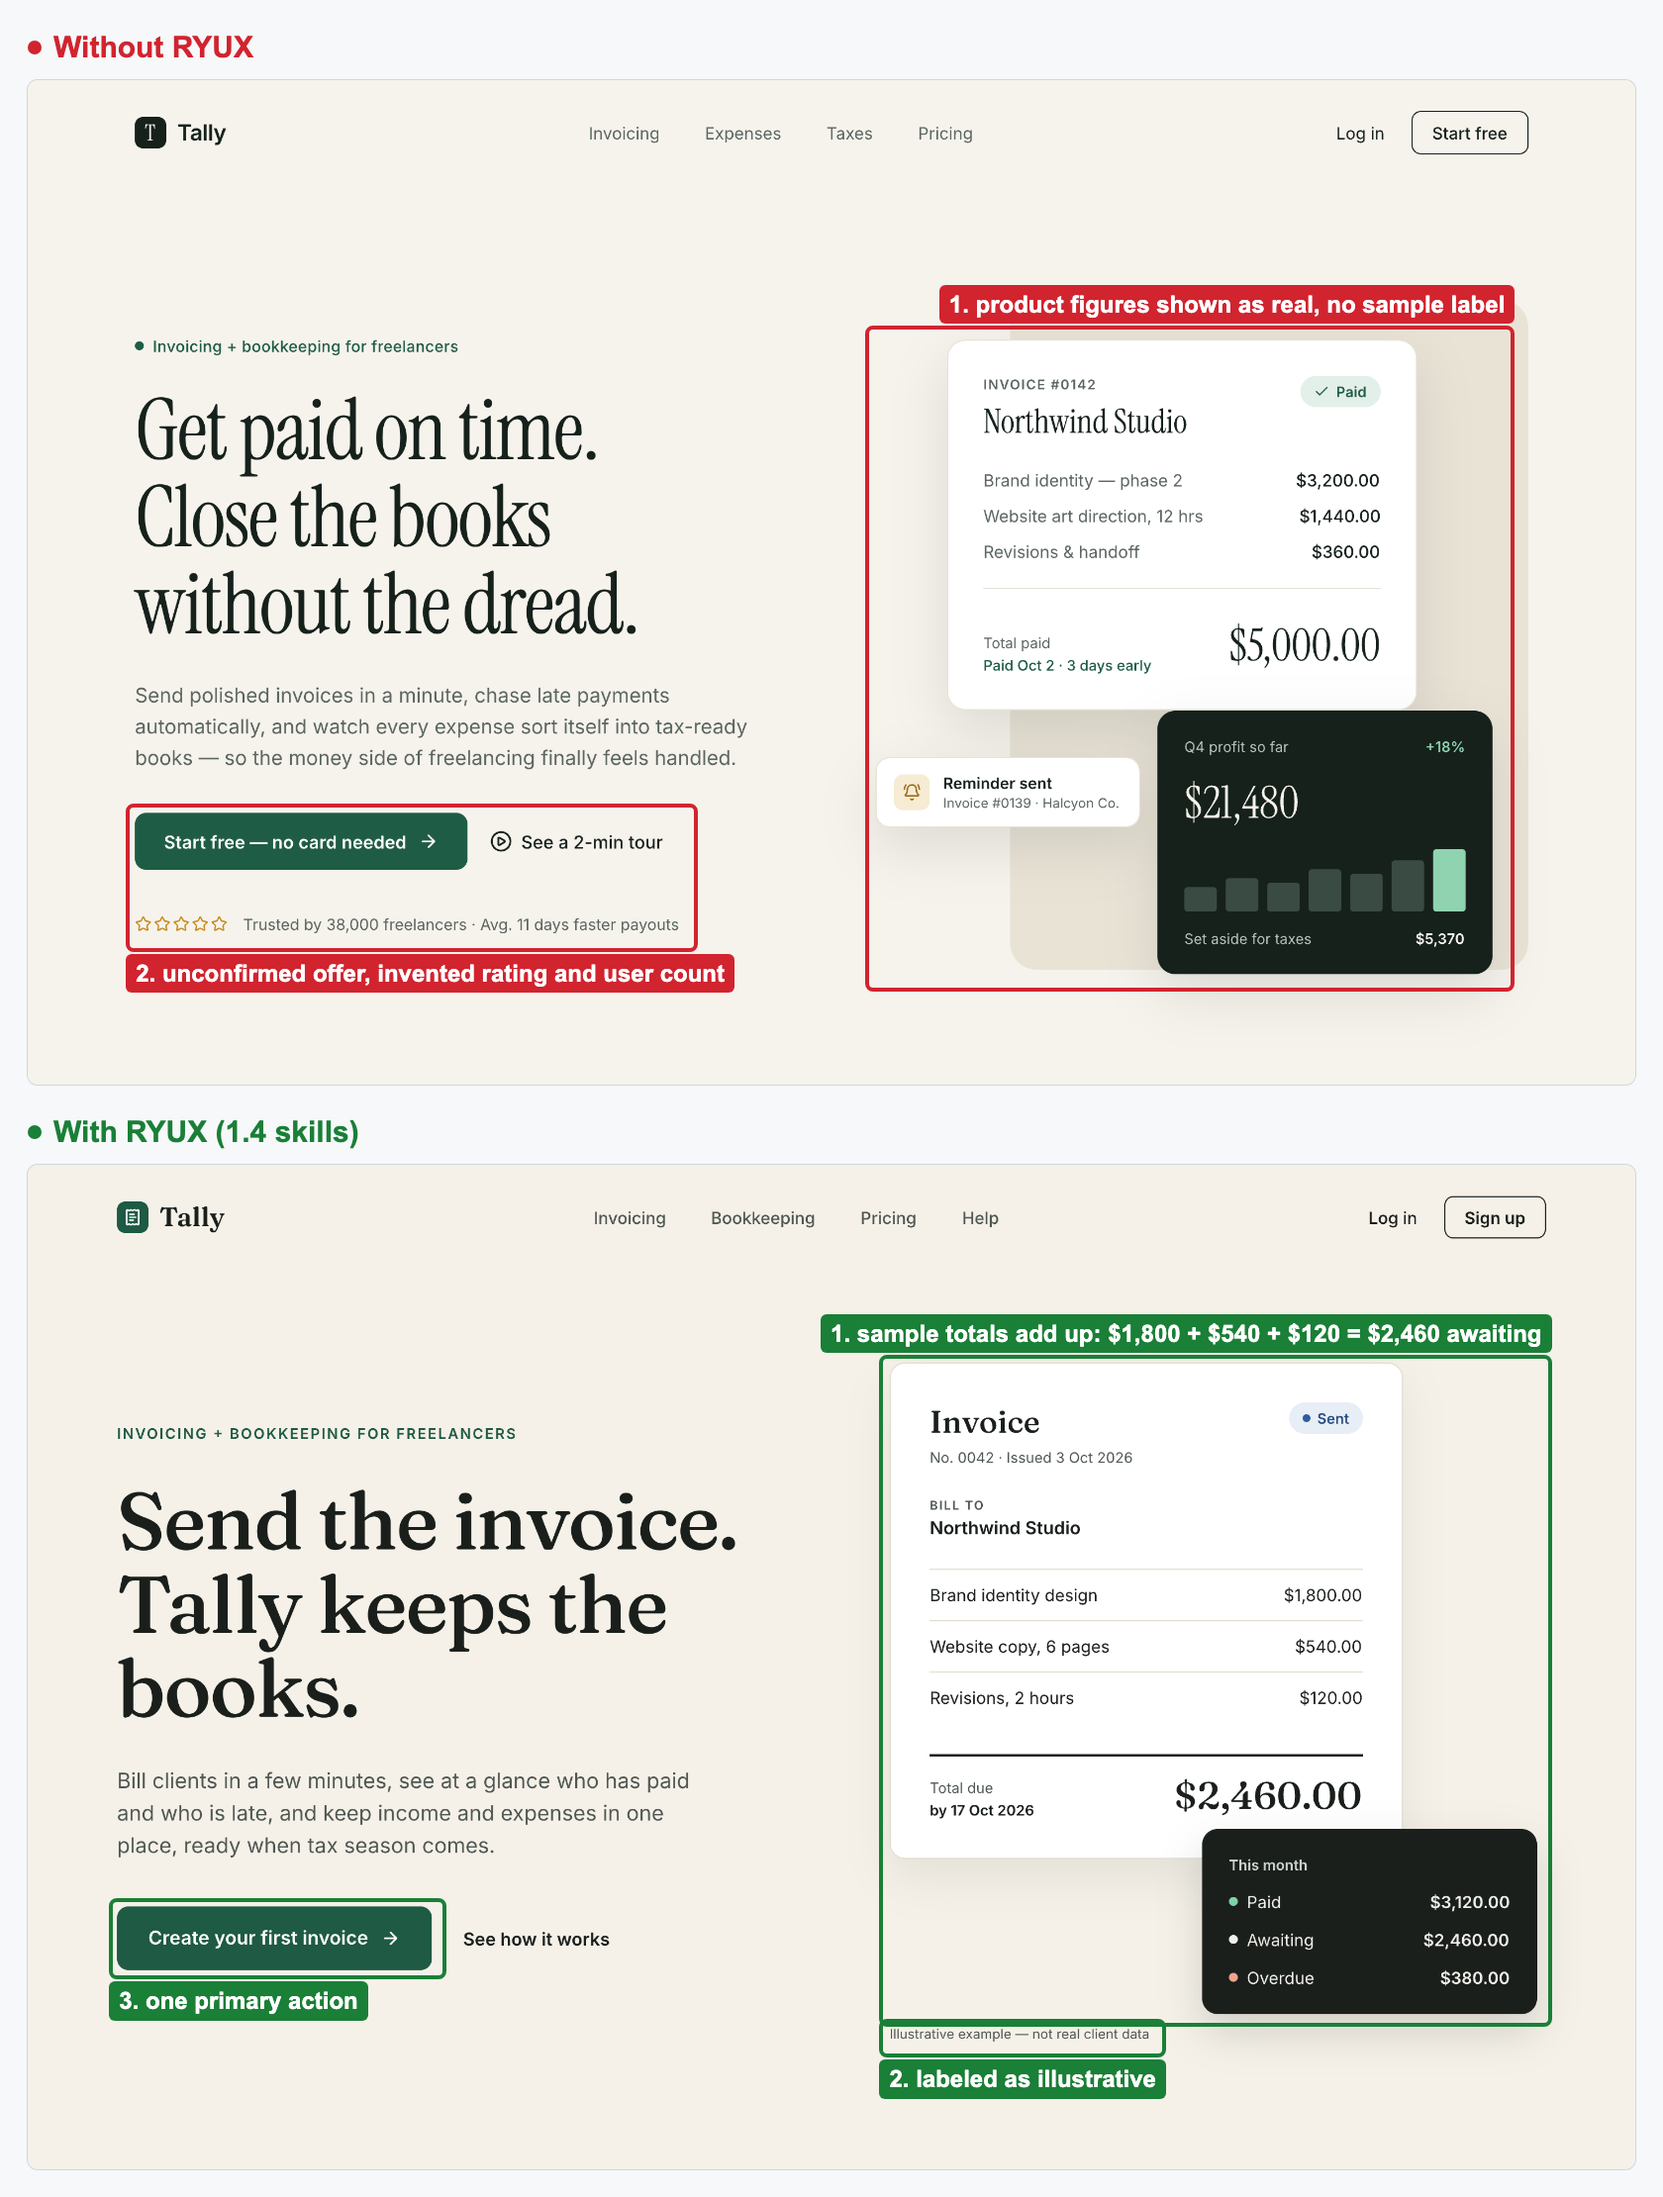
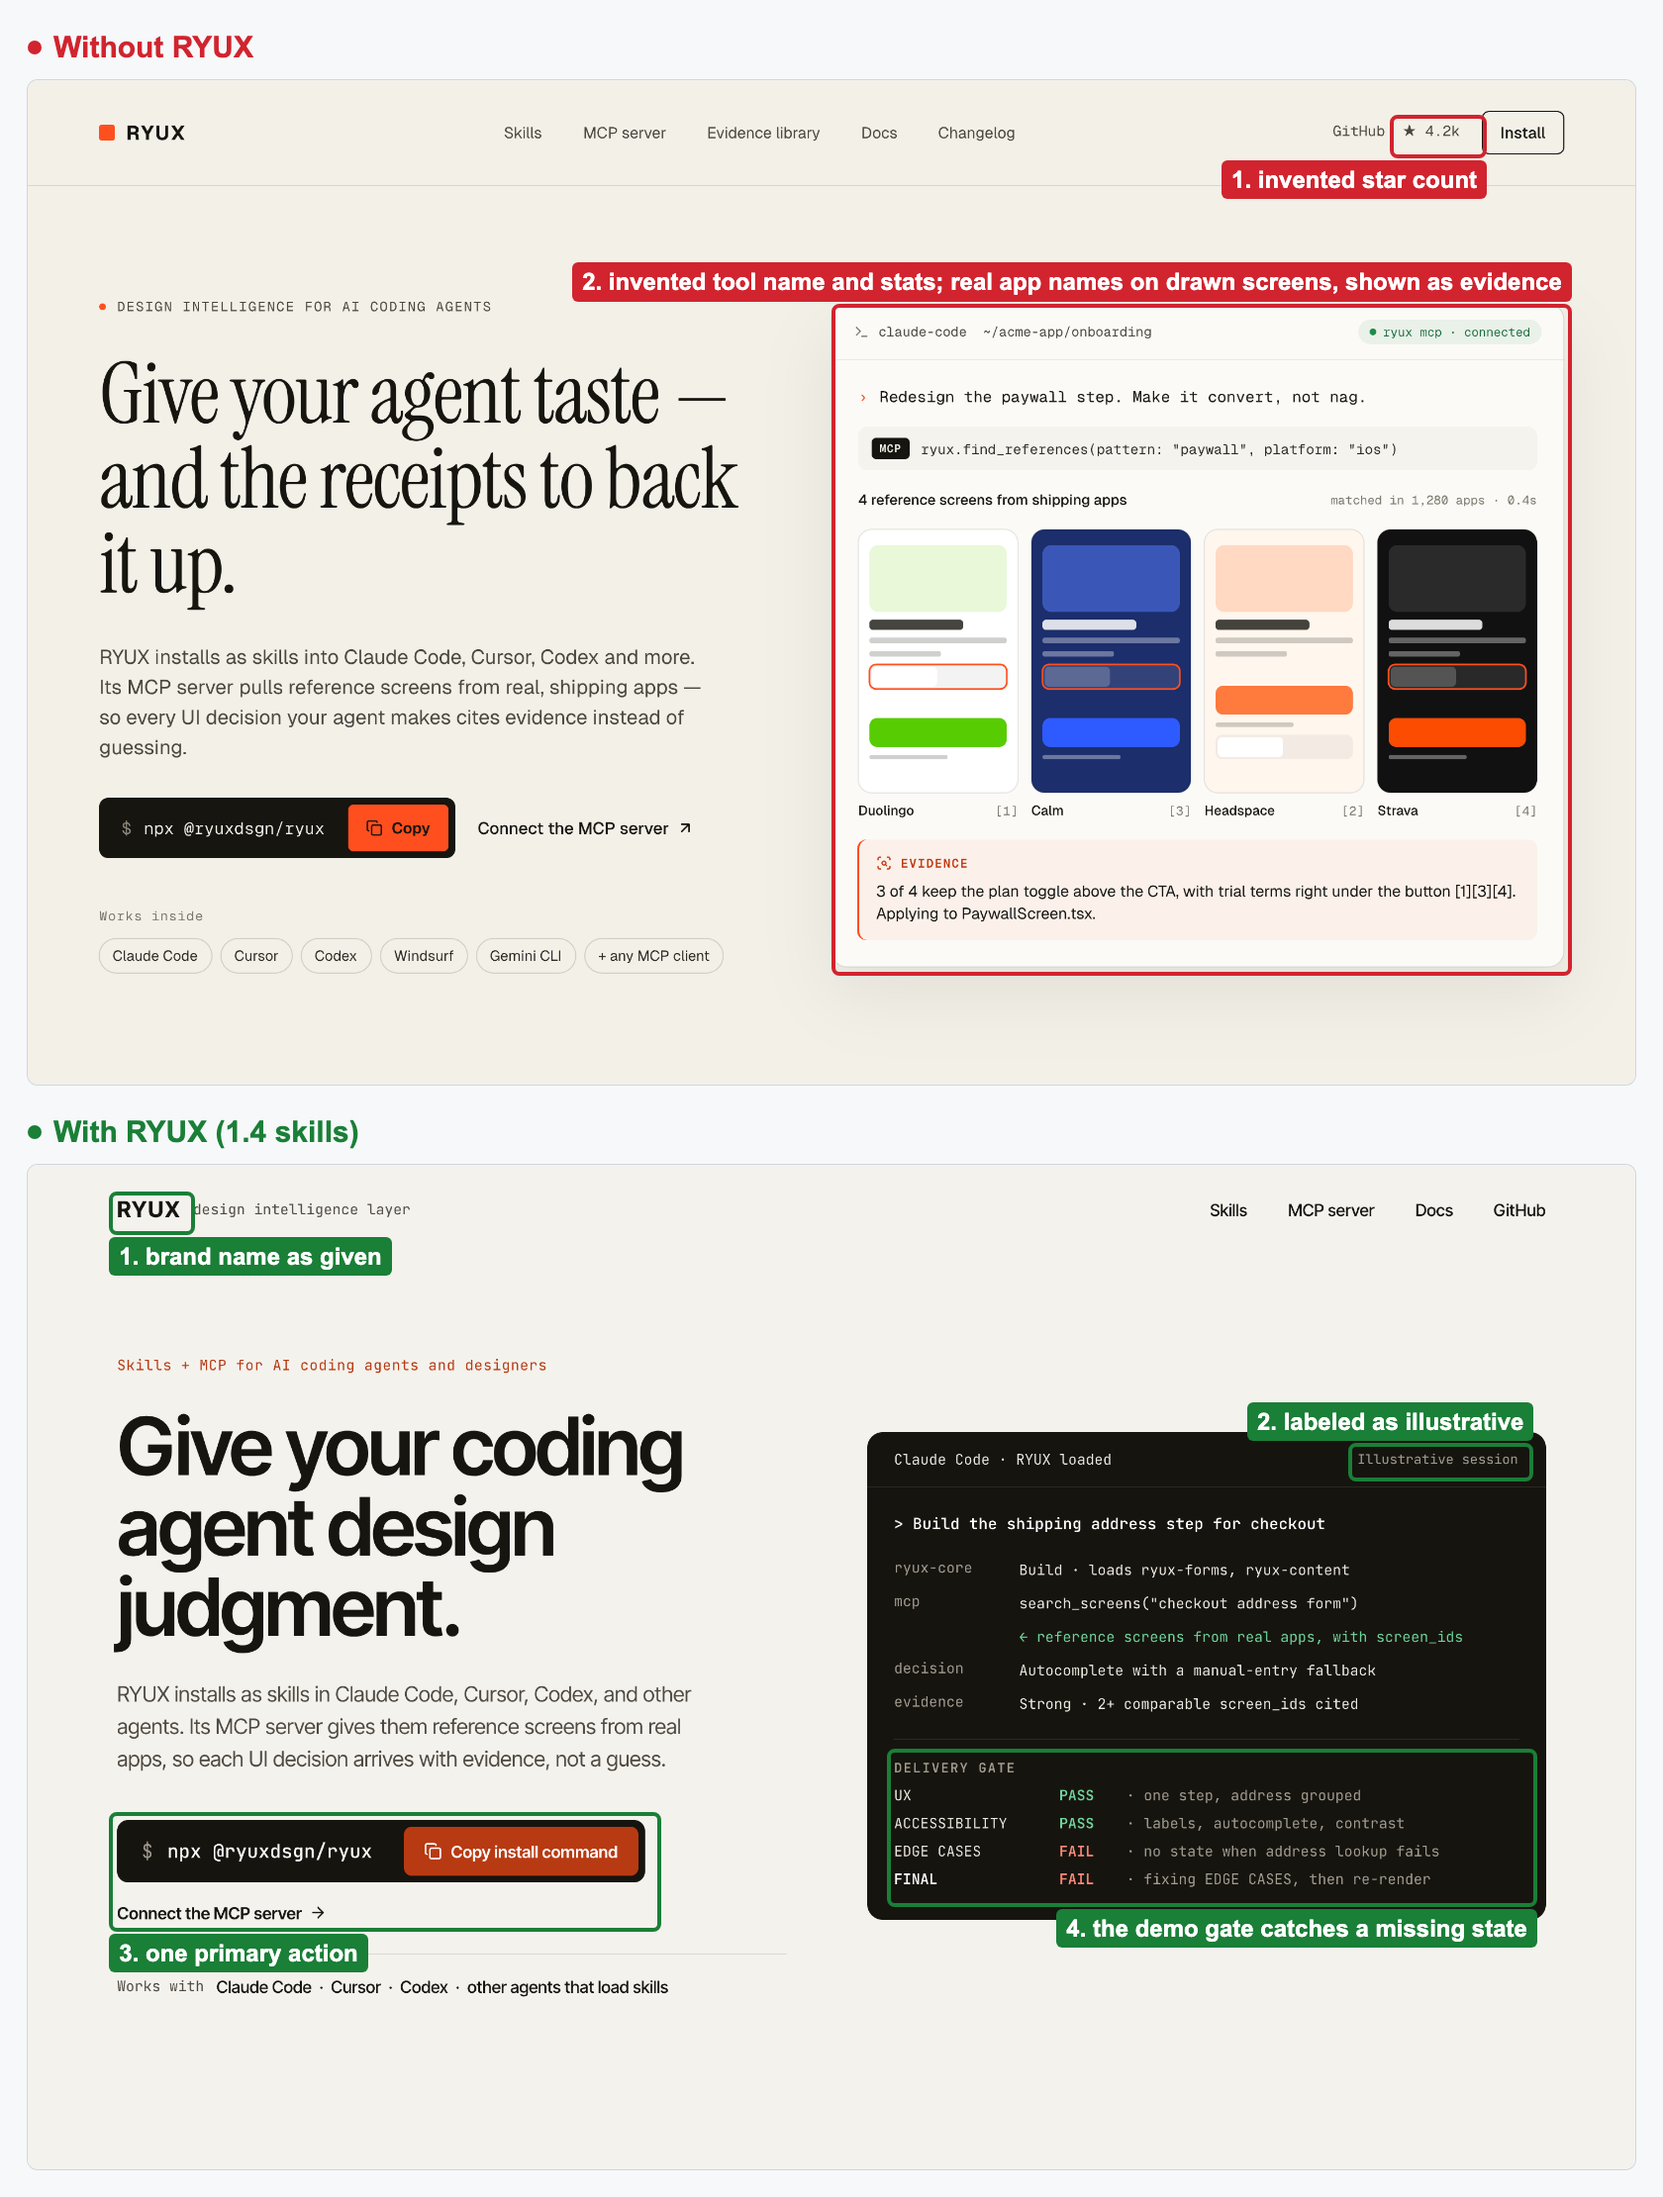
docs(readme): UI before/after is a hero for RYUX itself; rules 1.4.1
- UI example rerun headless in pen.dev with a brief for the RYUX hero.
  Without RYUX: an invented star count, a tool RYUX does not have, a
  "matched in 1,280 apps" stat, and real app names on drawn screens shown
  as evidence. With RYUX 1.4.1: the real search_screens tool in a session
  labeled illustrative, a sample Delivery Gate that fails a missing state,
  one primary action, and the RYUX wordmark as given.
- RX-CD-05: write product and brand names exactly as the brief gives them,
  including the wordmark, even when an older frame disagrees. Two runs had
  copied a lowercase "ryux" from an older frame.

diff --git a/packages/cli/src/content.ts b/packages/cli/src/content.ts
@@ -591,10 +591,10 @@ export const RULES: Rule[] = [
       title: "One name per thing",
       level: "required",
       gate: "lock",
-      do: "Use one term for each concept across screens, buttons, and messages.",
-      dont: "Call the same thing \"pesanan\", \"order\", and \"transaksi\" on different screens.",
-      why: "Changing terms make users wonder whether it is a different thing.",
-      basis: "Nielsen heuristic 4 (1994)",
+      do: "Use one term for each concept across screens, buttons, and messages. Write product and brand names exactly as the brief or brand guide gives them, including the wordmark; when an older design in the file disagrees with the brief, follow the brief and say so.",
+      dont: "Call the same thing \"pesanan\", \"order\", and \"transaksi\" on different screens, or restyle a brand name (RYUX as \"ryux\") because an older frame did.",
+      why: "Changing terms make users wonder whether it is a different thing; a misspelled brand name looks careless or fake.",
+      basis: `Nielsen heuristic 4 (1994); ${RUN}: pen.dev hero wordmark`,
       check: "review",
     },
     {
@@ -1288,7 +1288,7 @@ export const LEVEL_LABEL: Record<Level, string> = {
   contextual: "Contextual",
 };
 
-export const RULES_VERSION = "1.4.0";
+export const RULES_VERSION = "1.4.1";
 export const RULESET_VERSION = "RX-2.0";
 export const MCP_NAME = "ryux";
 export const MCP_URL = "https://mcp.ryux.design/mcp";

diff --git a/README.md b/README.md
@@ -86,18 +86,22 @@ output, not edited by hand. The colored boxes are annotations added afterwards.
 
 ### UI
 
-*"Design only the hero section of a landing page, 1440 wide by 900 tall, for Tally, an invoicing and
-bookkeeping app for freelancers."* Both runs designed in pen.dev through its MCP.
+*"Design only the hero section of a landing page, 1440 wide by 900 tall, for RYUX: a design
+intelligence layer for AI coding agents and designers. It installs as skills into Claude Code,
+Cursor, Codex, and other agents (npx @ryuxdsgn/ryux), and an MCP server gives agents reference
+screens from real apps as evidence."* Both runs designed in pen.dev through its MCP.
 
-<a href="assets/compare/ui/compare.png"><img src="assets/compare/ui/compare.png" alt="Two Tally hero sections designed in pen.dev, stacked. Without RYUX: product figures such as $21,480 Q4 profit and +18% presented as real, a 'Start free, no card needed' button nobody confirmed, five stars, 'Trusted by 38,000 freelancers', and 'Avg. 11 days faster payouts'. With RYUX 1.4: an invoice and a monthly summary whose sample totals add up ($1,800 + $540 + $120 = $2,460, the same amount shown as awaiting), a caption that labels them as an illustrative example, and one primary action, 'Create your first invoice'" width="100%"></a>
+<a href="assets/compare/ui/compare.png"><img src="assets/compare/ui/compare.png" alt="Two RYUX hero sections designed in pen.dev, stacked. Without RYUX: an invented 4.2k GitHub star count, and a mock agent session that calls a tool RYUX does not have (find_references), claims 'matched in 1,280 apps in 0.4s', and labels drawn screens with real app names (Duolingo, Calm, Headspace, Strava) as if they were evidence. With RYUX 1.4: the RYUX wordmark as given, an agent session labeled 'Illustrative session' that uses the real search_screens tool and shows a Delivery Gate failing a missing state, and one primary action, the real install command" width="100%"></a>
 
-Both heroes look finished, and that is the trap. Without RYUX, the polish hides a star rating, a
-user count, and a payout claim nobody gave it, plus a free offer nobody confirmed (RX-AS-01,
-RX-AS-07, RX-PR-02). Its product figures read as real numbers.
+Both heroes look finished, and that is the trap. Without RYUX, the agent invents a GitHub star
+count and a tool RYUX does not have, adds a "matched in 1,280 apps" stat, and puts real app names
+on drawn screens so they read as evidence (RX-AS-01, RX-AS-07, RX-PR-02).
 
-With RYUX, the visual shows the product doing its job and is labeled as an illustrative example
-(RX-UI-07). Its sample totals add up (RX-AS-03), and there is one primary action (RX-PR-03). The
-agent left out ratings, logos, and "Start free" because it did not know Tally's pricing.
+With RYUX, the demo session uses the real `search_screens` tool and is labeled as illustrative
+(RX-UI-07). Its sample Delivery Gate fails a missing state instead of claiming everything passes.
+The install command is the one primary action (RX-PR-03), and the wordmark is RYUX as given. Two
+earlier runs had written it as "ryux", copying an older frame in the file, so RX-CD-05 now says to
+follow the brief's spelling of brand names, and this run did.
 
 ### Code
 

diff --git a/docs/showcase.md b/docs/showcase.md
@@ -33,12 +33,12 @@ pnpm dev:mcp   # then: claude -p "<brief>" --mcp-config mcp.json --strict-mcp-co
 
 | Image | Without | With |
 | --- | --- | --- |
-| `ui/compare.png` | pen.dev MCP only; hero section only | pen.dev MCP + all RYUX 1.4 skills (`--for all`); no RYUX MCP; hero section only |
+| `ui/compare.png` | pen.dev MCP only; a hero section for RYUX itself | pen.dev MCP + all RYUX 1.4 skills (`--for all`); no RYUX MCP; same brief |
 | `code/compare.png` | no skills | all RYUX 1.3 skills; the agent picks which to load |
 | `chat/compare.png` | no skills | all RYUX 1.3 skills; the agent picks which to load |
 
-The current briefs are international (Tally, an invoicing app for freelancers), because RYUX is not
-only for the Indonesian market. The Indonesian set (`compare-id.png`) is kept under
+The UI brief is a hero section for RYUX itself; the code and copy briefs are international (Tally,
+an invoicing app for freelancers), because RYUX is not only for the Indonesian market. The Indonesian set (`compare-id.png`) is kept under
 [Indonesian market examples](#indonesian-market-examples).
 
 pen.dev's `execute` always targets the open document, so UI runs add one new top-level frame and

diff --git a/docs/design-rules.md b/docs/design-rules.md
@@ -515,9 +515,9 @@ Group UX · gate area UX. Covers specific copy, action labels, error messages, t
 
 #### RX-CD-05 [Required] [Quality Lock] One name per thing
 
-- Do: Use one term for each concept across screens, buttons, and messages.
-- Do not: Call the same thing "pesanan", "order", and "transaksi" on different screens.
-- Why: Changing terms make users wonder whether it is a different thing. (Nielsen heuristic 4 (1994))
+- Do: Use one term for each concept across screens, buttons, and messages. Write product and brand names exactly as the brief or brand guide gives them, including the wordmark; when an older design in the file disagrees with the brief, follow the brief and say so.
+- Do not: Call the same thing "pesanan", "order", and "transaksi" on different screens, or restyle a brand name (RYUX as "ryux") because an older frame did.
+- Why: Changing terms make users wonder whether it is a different thing; a misspelled brand name looks careless or fake. (Nielsen heuristic 4 (1994); ryux run 2026-10-02: pen.dev hero wordmark)
 - Check: review
 
 #### RX-CD-09 [Contextual] Dates, times, and numbers in Indonesian form

diff --git a/skills/ryux-content/SKILL.md b/skills/ryux-content/SKILL.md
@@ -71,9 +71,9 @@ Real labels, errors, and how money, dates, and times are written in the product'
 
 ### RX-CD-05 [Required] [Quality Lock] One name per thing
 
-- Do: Use one term for each concept across screens, buttons, and messages.
-- Do not: Call the same thing "pesanan", "order", and "transaksi" on different screens.
-- Why: Changing terms make users wonder whether it is a different thing. (Nielsen heuristic 4 (1994))
+- Do: Use one term for each concept across screens, buttons, and messages. Write product and brand names exactly as the brief or brand guide gives them, including the wordmark; when an older design in the file disagrees with the brief, follow the brief and say so.
+- Do not: Call the same thing "pesanan", "order", and "transaksi" on different screens, or restyle a brand name (RYUX as "ryux") because an older frame did.
+- Why: Changing terms make users wonder whether it is a different thing; a misspelled brand name looks careless or fake. (Nielsen heuristic 4 (1994); ryux run 2026-10-02: pen.dev hero wordmark)
 - Check: review
 
 ### RX-CD-09 [Contextual] Dates, times, and numbers in Indonesian form

diff --git a/skills/ryux-core/SKILL.md b/skills/ryux-core/SKILL.md
@@ -5,7 +5,7 @@ description: "RYUX core - a design intelligence layer for AI and designers. Choo
 
 # ryux-core
 
-> RYUX RX-2.0 (rules v1.4.0), MIT licensed. Evidence first, local where it matters.
+> RYUX RX-2.0 (rules v1.4.1), MIT licensed. Evidence first, local where it matters.
 
 RYUX is a design intelligence layer for AI and designers: it helps understand, build, evaluate,
 and fix interfaces through design reasoning. It is not a UI generator, an anti-slop framework, or
